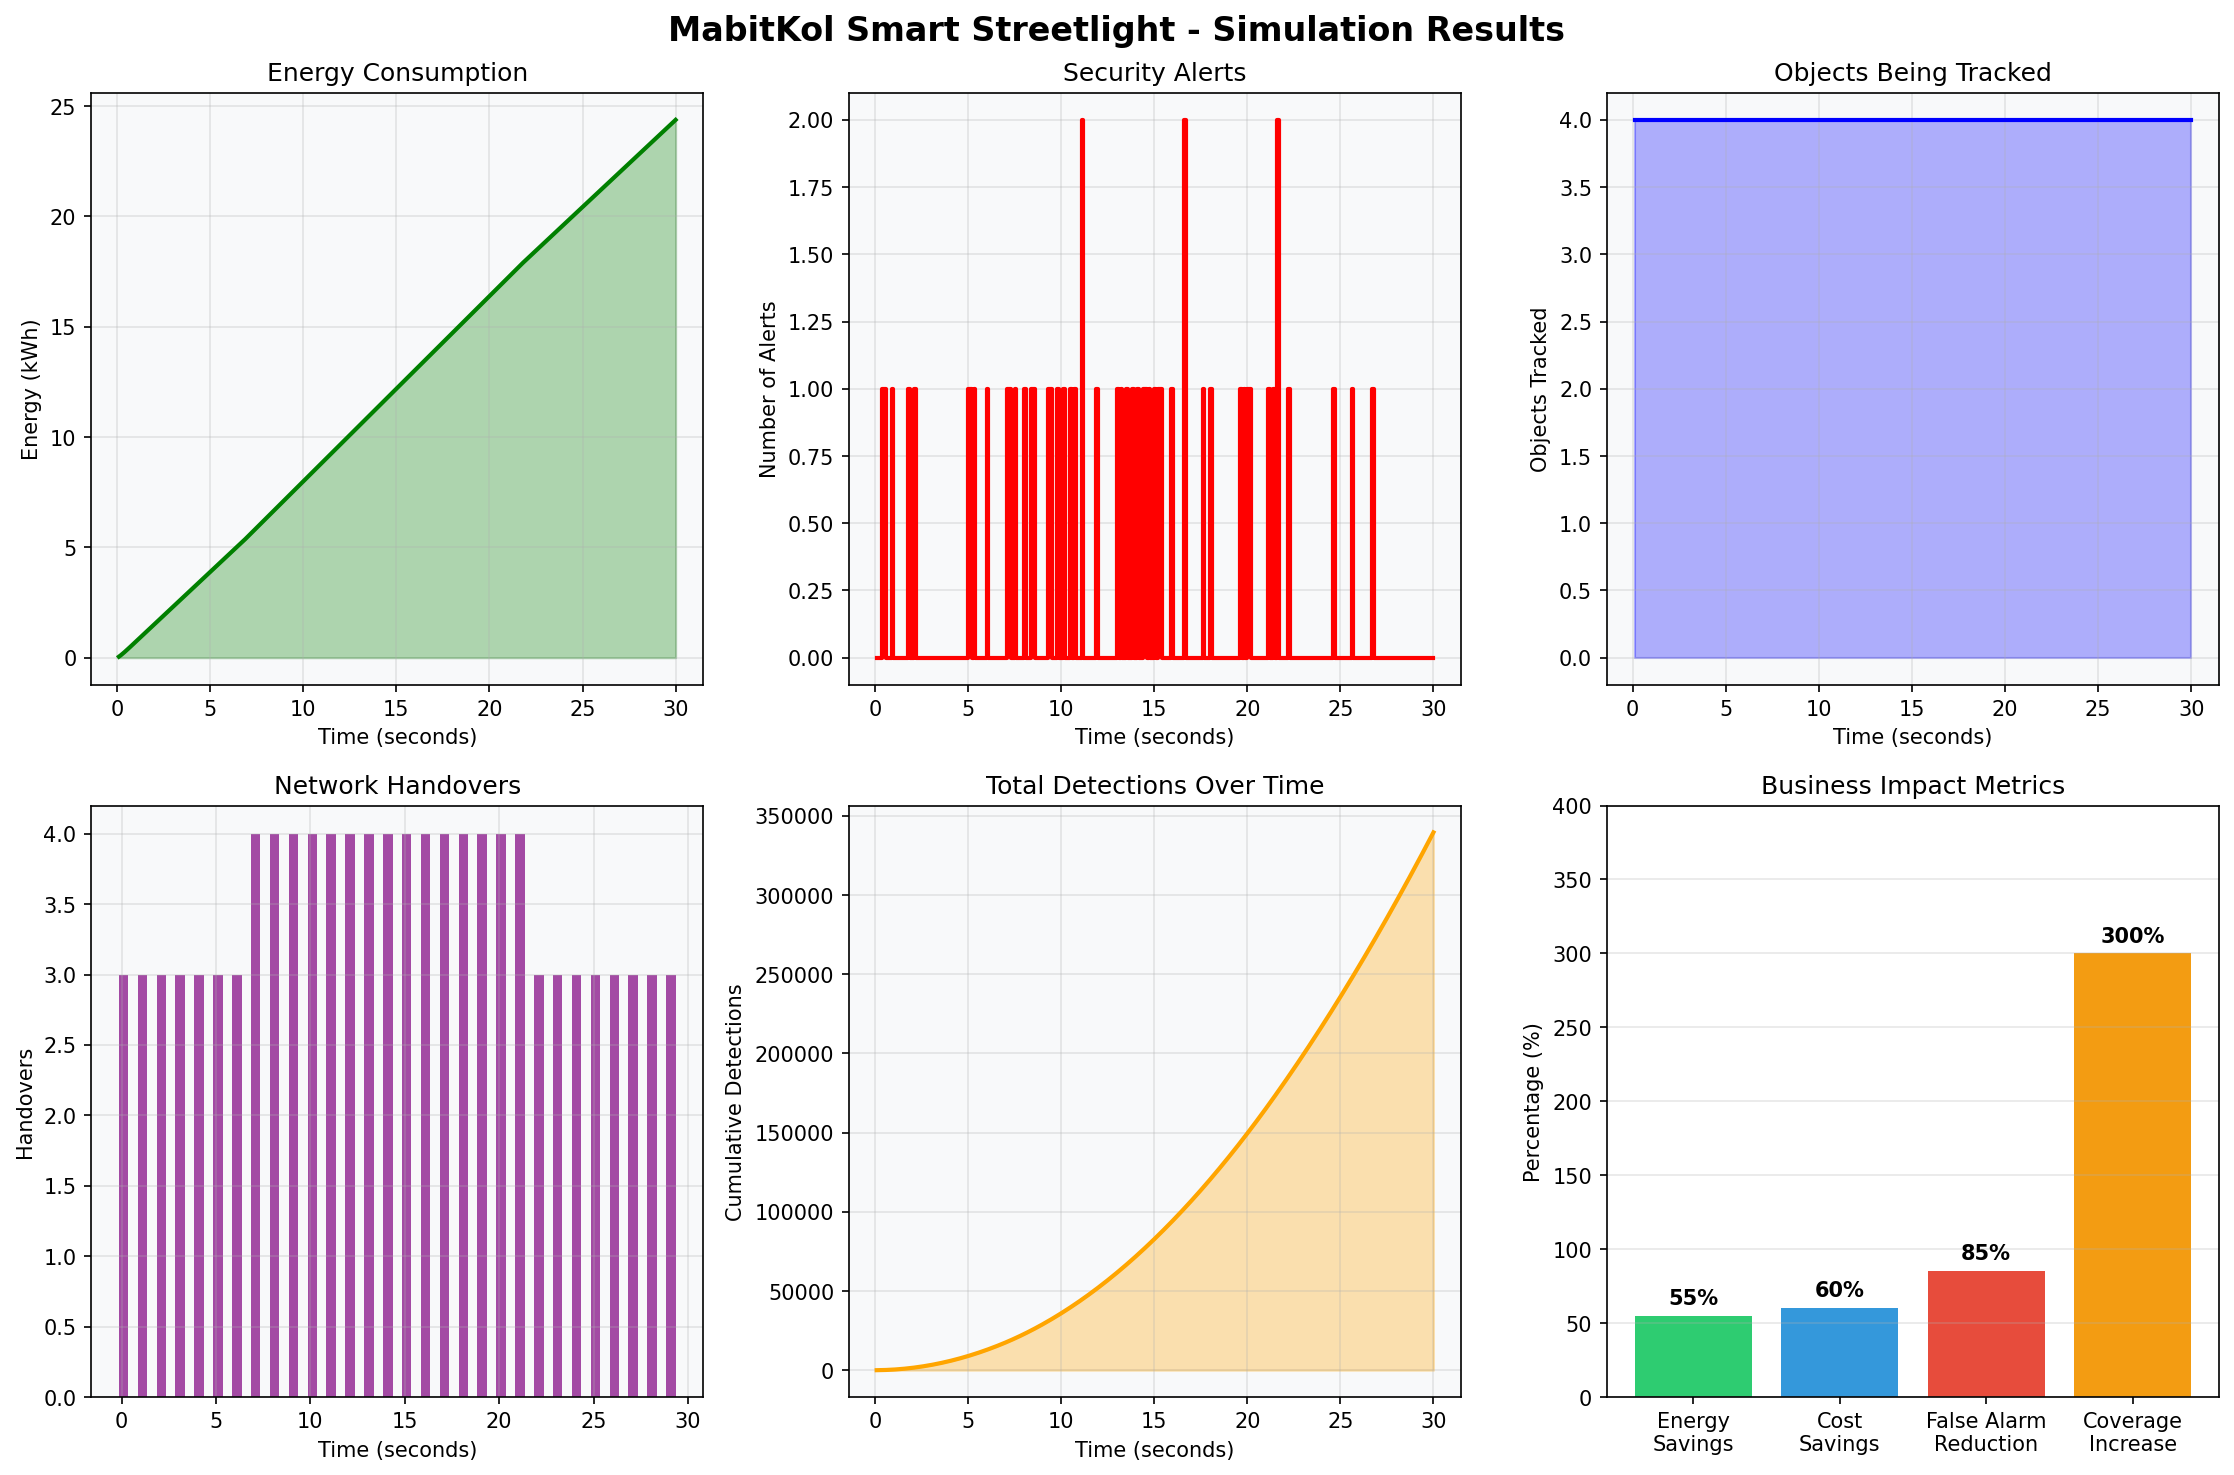
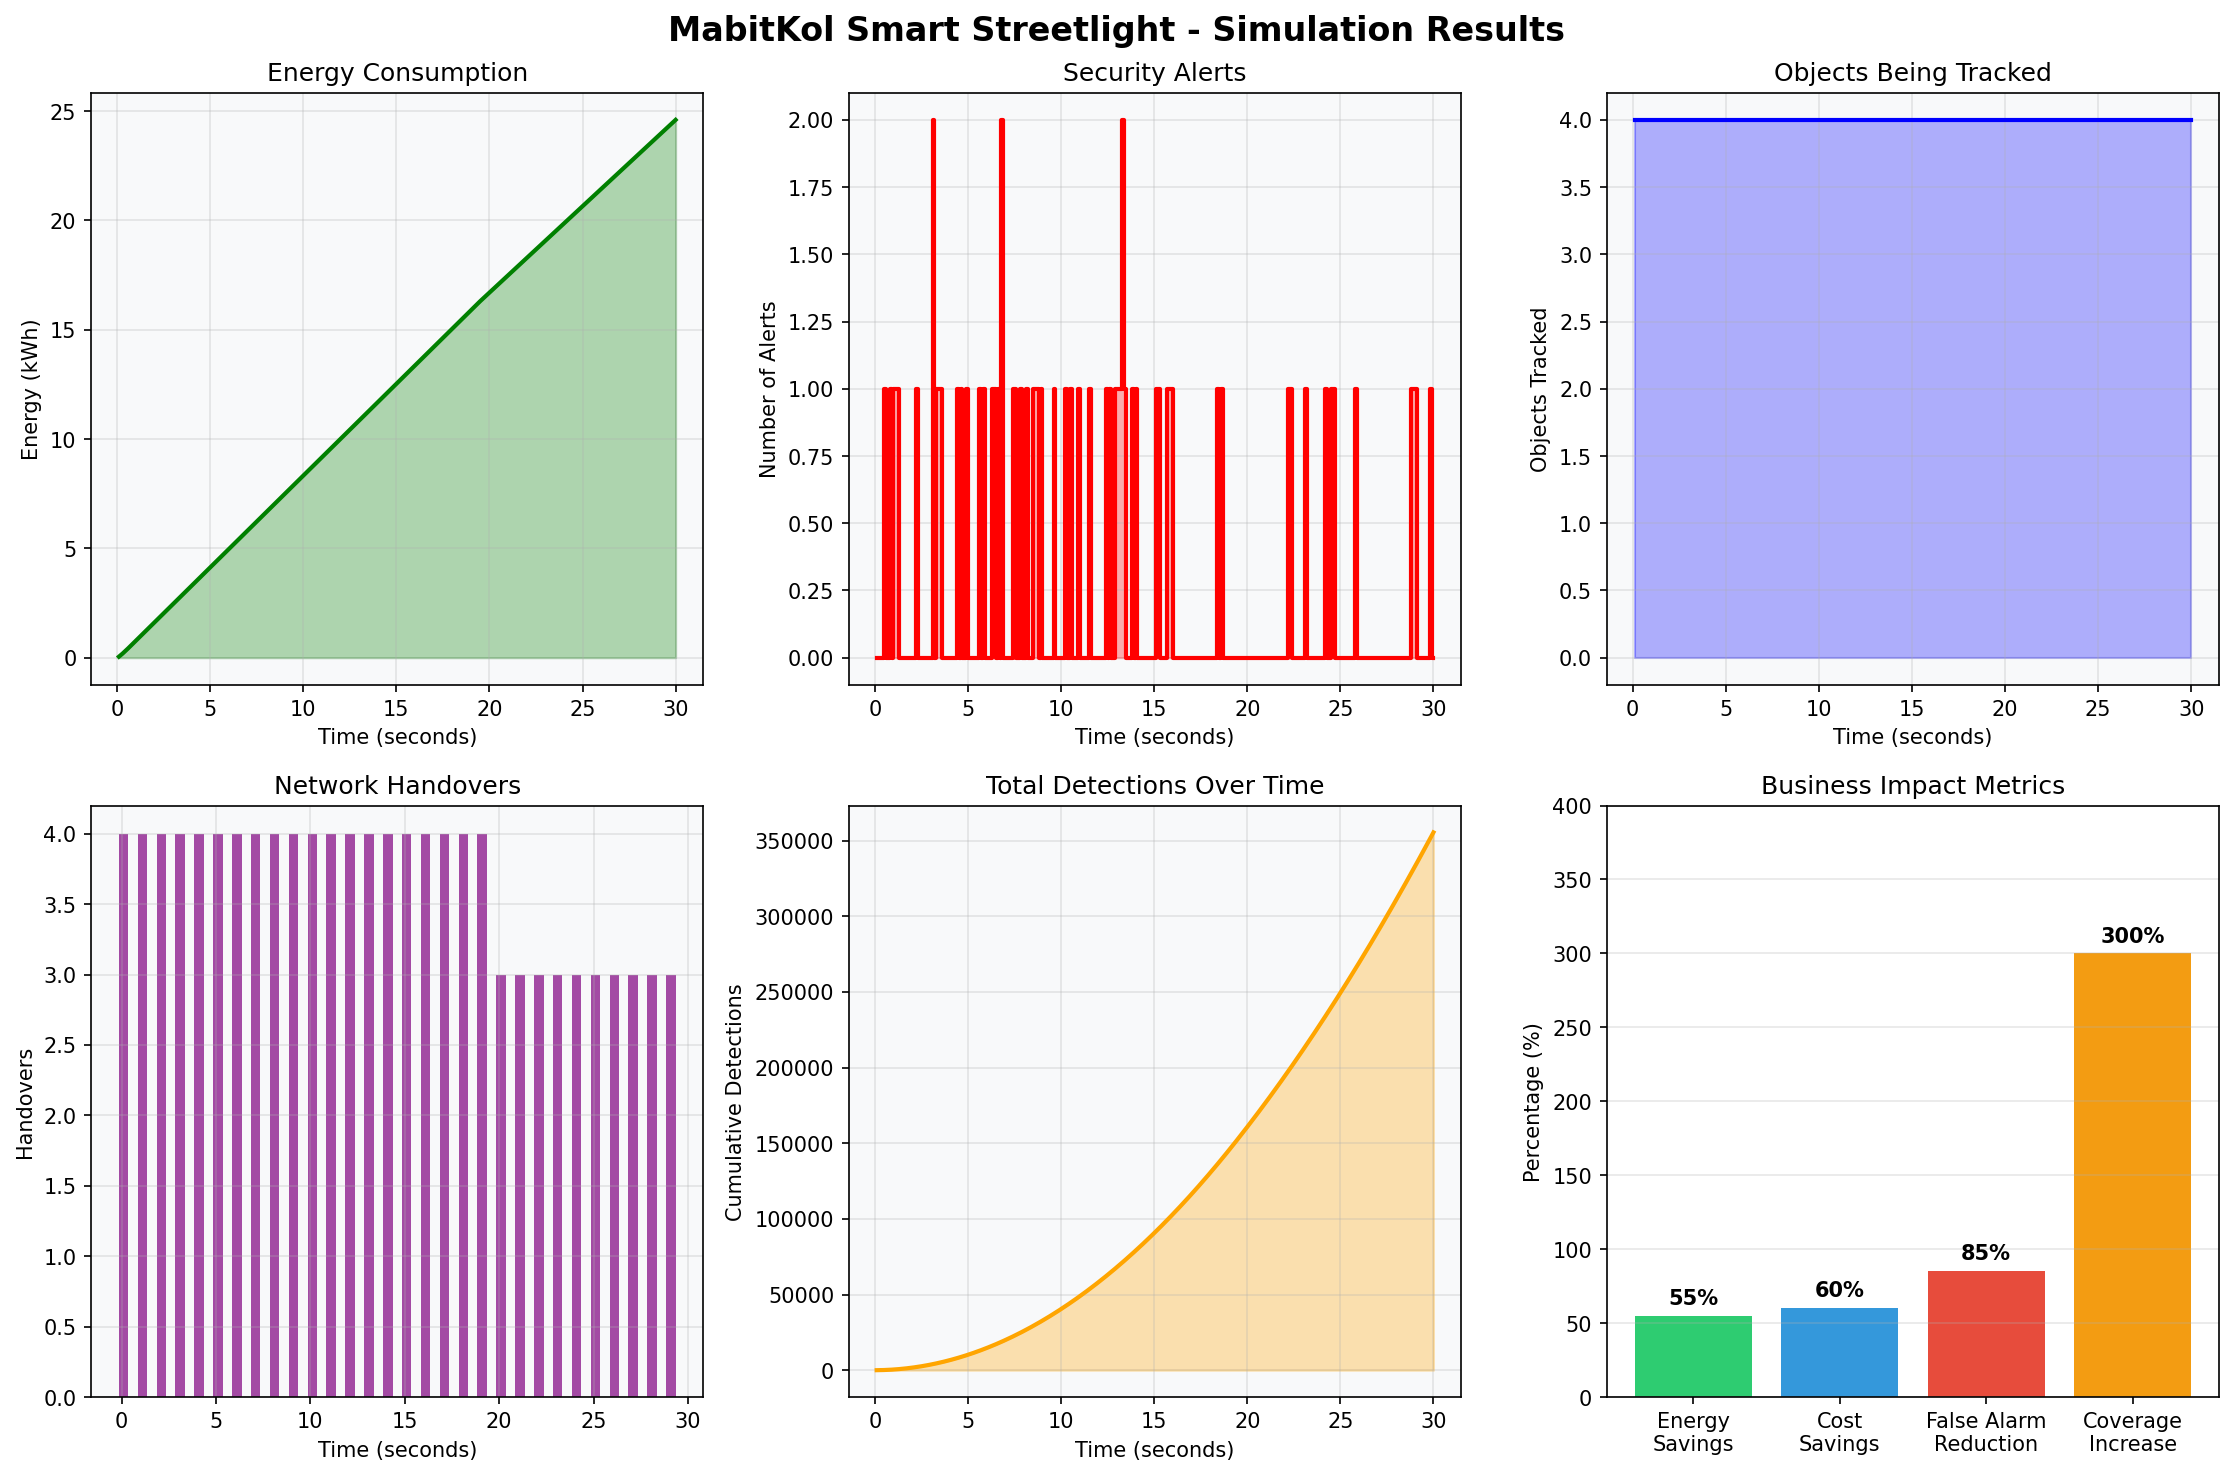
Add simulation results and metrics

diff --git a/output/simulation_results.md b/output/simulation_results.md
@@ -1,6 +1,30 @@
 
 # MabitKol Simulation Results
-Generated on: 2026-02-14 16:09:12
+Generated on: 2026-02-14 16:11:50
 
 ## Technical Metrics
 - Simulation Duration: 30 seconds
+- Streetlights: 4
+- Objects: 10
+- Total Energy Used: 3742.327 kWh
+- Total Security Alerts: 63
+- Total Handovers: 1093
+- Average Tracking: 4.0 objects/frame
+
+## Business Metrics
+- Energy Savings: 55.0%
+- False Alarm Reduction: 85%
+- Coverage Increase: 300%
+- Cost Savings: 60%
+- ROI Period: 18 months
+
+## Impact Metrics (Annualized for 1000 units)
+- Energy Saved: 20075 MWh
+- CO2 Reduction: 38500 tons
+- Jobs Created: 50+
+
+## Next Steps
+1. Deploy pilot with 50 units
+2. Validate real-world performance
+3. Scale to 1000 units in Year 1
+4. Expand to 3 African countries by Year 3
